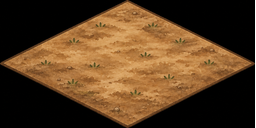
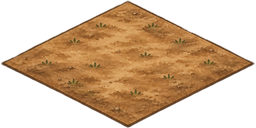
dirt road and house change

diff --git a/components/BuildBar.tsx b/components/BuildBar.tsx
@@ -4,7 +4,8 @@ import { useState } from "react";
 import { useGameStore } from "@/store/gameStore";
 import Image from "next/image";
 import Cabin from "@/public/assets/buildings/cabin.png";
-import DirtRoad from "@/public/assets/road/dirt.png";
+import House from "@/public/assets/buildings/house.png";
+import DirtRoad from "@/public/assets/game/dirt.png";
 import ConcreteRoad from "@/public/assets/road/concrete.png";
 import { FaHouse } from "react-icons/fa6";
 import { FaRoad, FaTrash } from "react-icons/fa";
@@ -149,7 +150,7 @@ export default function BuildBar() {
             "
           >
             <span className="text-[20px] leading-none">+</span>
-            <span className="mt-2 text-[10px] font-bold uppercase tracking-[0.16em]">
+            <span className="mt-2 text-[9px] font-bold uppercase tracking-[0.16em]">
               Soon
             </span>
           </div>
@@ -219,8 +220,46 @@ export default function BuildBar() {
             aria-label="Back to build menu"
           >
             <span className="text-[24px] leading-none">←</span>
-            <span className="mt-2 text-[10px] font-bold uppercase tracking-[0.16em]">
+            <span className="mt-2 text-[9px] font-bold uppercase tracking-[0.16em]">
               Back
+            </span>
+          </button>
+
+          <button
+            onClick={() =>
+              placeBuilding({
+                x: selectedTile.x,
+                y: selectedTile.y,
+                type: "cabin",
+              })
+            }
+            className="
+              group
+              flex
+              h-19.5
+              w-19.5
+              shrink-0
+              cursor-pointer
+              flex-col
+              items-center
+              justify-center
+              rounded-2xl
+              border
+              border-[#ffe5b7]/80
+              bg-[linear-gradient(180deg,#fff3d2_0%,#dbaa60_100%)]
+              text-[#4b3223]
+              transition-all
+              duration-200
+              hover:-translate-y-0.5
+              hover:shadow-[0_8px_18px_rgba(36,23,14,0.28)]
+            "
+            aria-label="Build house"
+          >
+            <span className="text-[28px] leading-none transition group-hover:scale-110">
+              <Image src={Cabin} alt="cabin" width={50} height={50} />
+            </span>
+            <span className="mt-1 text-[9px] font-bold uppercase tracking-[0.16em]">
+              Cabin
             </span>
           </button>
 
@@ -255,36 +294,10 @@ export default function BuildBar() {
             aria-label="Build house"
           >
             <span className="text-[28px] leading-none transition group-hover:scale-110">
-              <Image src={Cabin} alt="cabin" width={70} height={70} />
+              <Image src={House} alt="house" width={50} height={50} />
             </span>
-            <span className="mt-2 text-[9px] font-bold uppercase tracking-[0.16em]">
-              Cabin
-            </span>
-          </button>
-
-          <button
-            disabled
-            className="
-              flex
-              h-19.5
-              w-19.5
-              shrink-0
-              cursor-not-allowed
-              flex-col
-              items-center
-              justify-center
-              rounded-2xl
-              border
-              border-[#6d5749]
-              bg-[linear-gradient(180deg,#cfc0ad_0%,#a89682_100%)]
-              text-[#705f50]
-              opacity-65
-            "
-            aria-label="Barn coming soon"
-          >
-            <span className="text-[28px] leading-none">🏚️</span>
-            <span className="mt-2 text-[10px] font-bold uppercase tracking-[0.16em]">
-              Barn
+            <span className="mt-1 text-[9px] font-bold uppercase tracking-[0.16em]">
+              House
             </span>
           </button>
 
@@ -309,7 +322,7 @@ export default function BuildBar() {
             aria-label="Workshop coming soon"
           >
             <span className="text-[28px] leading-none">🏭</span>
-            <span className="mt-2 text-[10px] font-bold uppercase tracking-[0.16em]">
+            <span className="mt-2 text-[9px] font-bold uppercase tracking-[0.16em]">
               Shop
             </span>
           </button>
@@ -339,7 +352,7 @@ export default function BuildBar() {
             aria-label="Back to build menu"
           >
             <span className="text-[24px] leading-none">←</span>
-            <span className="mt-2 text-[10px] font-bold uppercase tracking-[0.16em]">
+            <span className="mt-2 text-[9px] font-bold uppercase tracking-[0.16em]">
               Back
             </span>
           </button>
@@ -368,10 +381,10 @@ export default function BuildBar() {
             "
             aria-label="Build dirt road"
           >
-            <span className="text-[28px] leading-none transition group-hover:scale-110">
-              <Image src={DirtRoad} alt="dirt road" width={70} height={70} />
+            <span className="text-[28px] leading-none transition group-hover:scale-110 mt-2">
+              <Image src={DirtRoad} alt="dirt road" width={60} height={60} />
             </span>
-            <span className="mt-2 text-[9px] font-bold uppercase tracking-[0.16em]">
+            <span className="mt-3 text-[9px] font-bold uppercase tracking-[0.16em]">
               Dirt
             </span>
           </button>
@@ -431,7 +444,7 @@ export default function BuildBar() {
             "
           >
             <span className="text-[20px] leading-none">+</span>
-            <span className="mt-2 text-[10px] font-bold uppercase tracking-[0.16em]">
+            <span className="mt-2 text-[9px] font-bold uppercase tracking-[0.16em]">
               Soon
             </span>
           </div>

diff --git a/render/BuildingRenderer.ts b/render/BuildingRenderer.ts
@@ -6,10 +6,10 @@ import { isoToWorld } from "@/utils/iso";
 
 const ROAD_TEXTURES = {
   dirt: {
-    src: "/assets/road/dirt.png",
-    visibleWidth: 1150,
-    offsetX: 5,
-    offsetY: 4,
+    src: "/assets/game/dirt.png",
+    visibleWidth: 250,
+    offsetX: 0,
+    offsetY: 0,
     overscan: 1,
   },
   concrete: {
@@ -21,13 +21,23 @@ const ROAD_TEXTURES = {
   },
 } as const;
 
-const HOUSE_TEXTURE = {
+const CABIN_TEXTURE = {
   src: "/assets/buildings/cabin.png",
-  visibleWidth: 1120,
-  footprintCenterX: 934.5 / 1920,
-  footprintBaseY: 997 / 1080,
-  offsetX: -14,
-  offsetY: -12,
+  visibleWidth: 230,
+  footprintCenterX: 127.5 / 256,
+  footprintBaseY: 250 / 256,
+  offsetX: 0,
+  offsetY: 58.5,
+  overscan: 1,
+} as const;
+
+const HOUSE_TEXTURE = {
+  src: "/assets/buildings/house.png",
+  visibleWidth: 396,
+  footprintCenterX: 275.5 / 550,
+  footprintBaseY: 394 / 454,
+  offsetX: 0,
+  offsetY: 0,
   overscan: 1,
 } as const;
 
@@ -74,19 +84,22 @@ export default class BuildingRenderer {
         continue;
       }
 
-      if (building.type !== "house") continue;
+      if (building.type !== "cabin" && building.type !== "house") continue;
 
-      const texture = Assets.get(HOUSE_TEXTURE.src);
+      const buildingTexture =
+        building.type === "house" ? HOUSE_TEXTURE : CABIN_TEXTURE;
+
+      const texture = Assets.get(buildingTexture.src);
       const sprite = new Sprite(texture);
       const pos = isoToWorld(building.x, building.y);
       const scale =
-        (TILE_WIDTH / HOUSE_TEXTURE.visibleWidth) * HOUSE_TEXTURE.overscan;
-      const offsetX = HOUSE_TEXTURE.offsetX * scale;
-      const offsetY = HOUSE_TEXTURE.offsetY * scale;
+        (TILE_WIDTH / buildingTexture.visibleWidth) * buildingTexture.overscan;
+      const offsetX = buildingTexture.offsetX * scale;
+      const offsetY = buildingTexture.offsetY * scale;
 
       sprite.anchor.set(
-        HOUSE_TEXTURE.footprintCenterX,
-        HOUSE_TEXTURE.footprintBaseY,
+        buildingTexture.footprintCenterX,
+        buildingTexture.footprintBaseY,
       );
       sprite.position.set(pos.x + offsetX, pos.y + offsetY);
       sprite.scale.set(scale);

diff --git a/engine/Game.ts b/engine/Game.ts
@@ -38,7 +38,8 @@ export default class Game {
       "/assets/game/grass4.png",
       "/assets/game/highlight.png",
       "/assets/buildings/cabin.png",
-      "/assets/road/dirt.png",
+      "/assets/buildings/house.png",
+      "/assets/game/dirt.png",
       "/assets/road/concrete.png",
     ]);
 

diff --git a/store/gameStore.ts b/store/gameStore.ts
@@ -5,7 +5,7 @@ export interface TilePosition {
   y: number;
 }
 
-export type BuildingType = "house" | "path";
+export type BuildingType = "cabin" | "house" | "path";
 export type RoadSurface = "dirt" | "concrete";
 
 export interface BuildingPlacement {